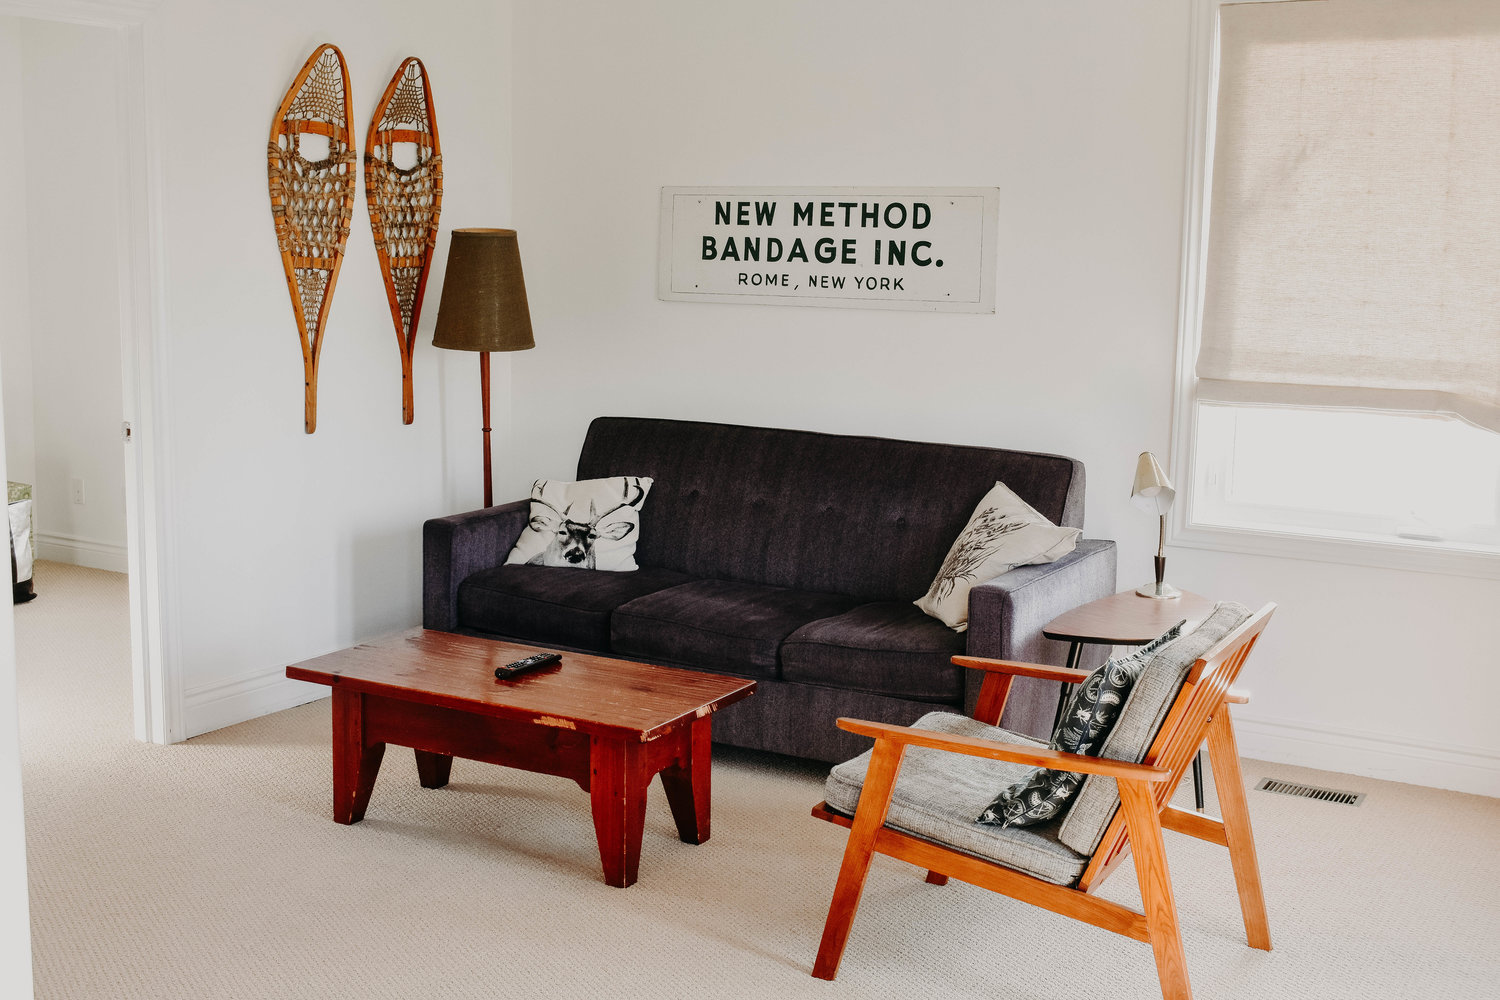
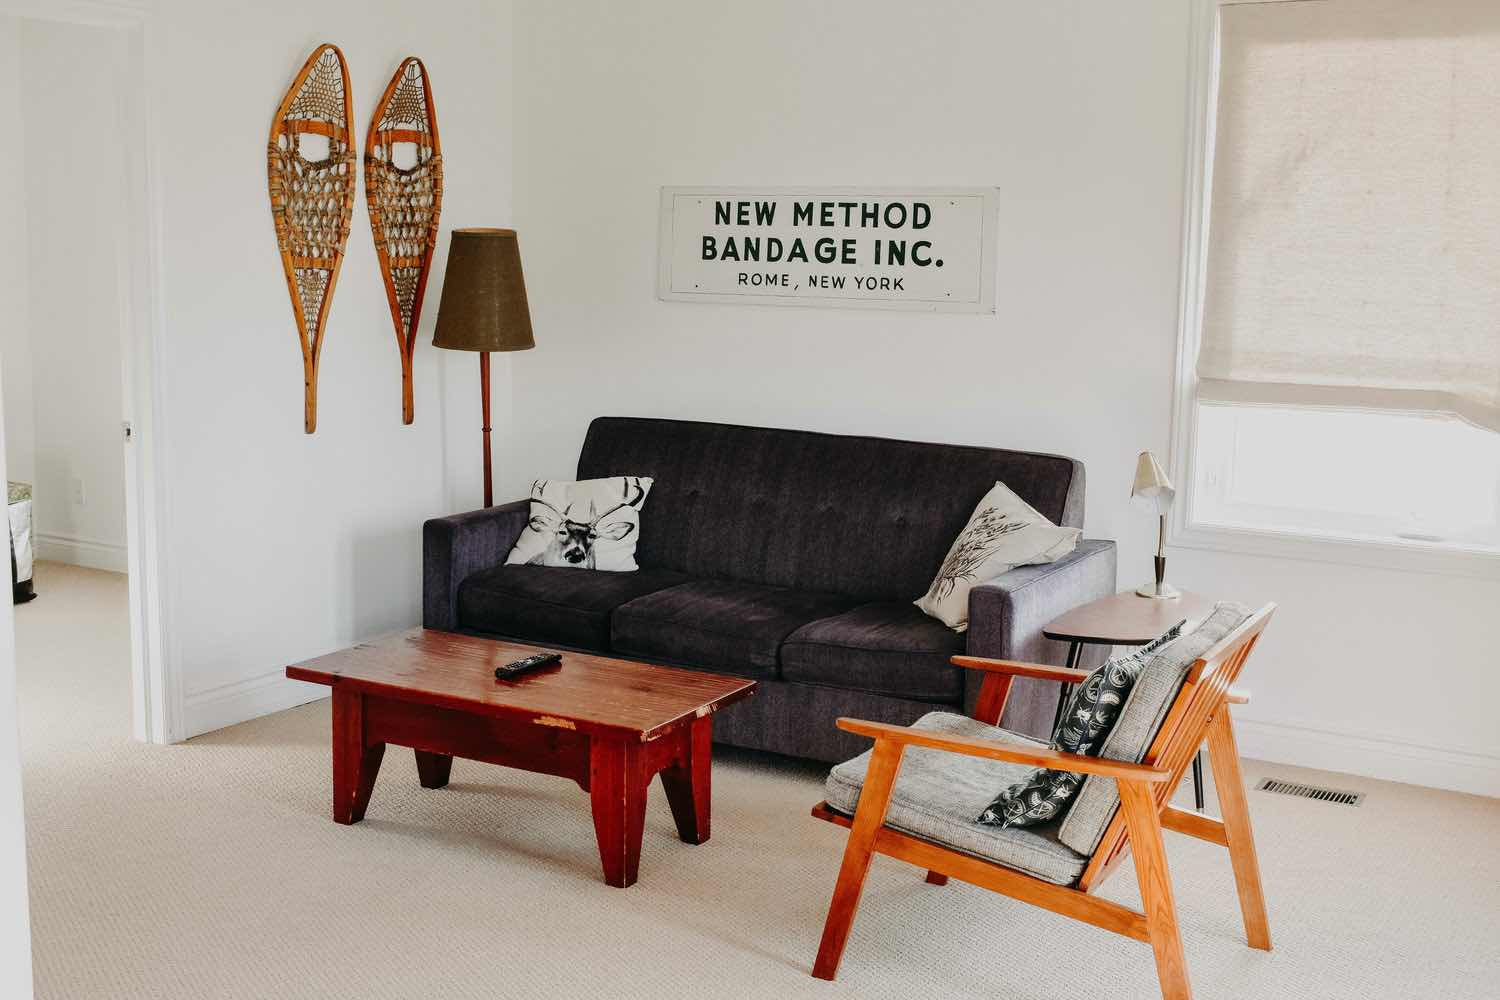
compress images further

diff --git a/public/index.html b/public/index.html
@@ -252,7 +252,7 @@
                 <div class="reasons-details-container">
                     <a href="javascript:void(0)">
                         <div>
-                            <img src="img/insurance.png" alt="property insurance">
+                            <img src="img/insurance.jpg" alt="property insurance">
                         </div>
                         <div>
                             <p>Property Insurance</p>
@@ -262,7 +262,7 @@
                 <div class="reasons-details-container">
                     <a href="javascript:void(0)">
                         <div>
-                            <img src="img/tax.png" alt="tax advantage">
+                            <img src="img/tax.jpg" alt="tax advantage">
                         </div>
                         <div>
                             <p>Tax Advantage</p>
@@ -272,7 +272,7 @@
                 <div class="reasons-details-container">
                     <a href="javascript:void(0)">
                         <div>
-                            <img src="img/commission.png" alt="lowest commission">
+                            <img src="img/commission.jpg" alt="lowest commission">
                         </div>
                         <div>
                             <p>Lowest Commission</p>
